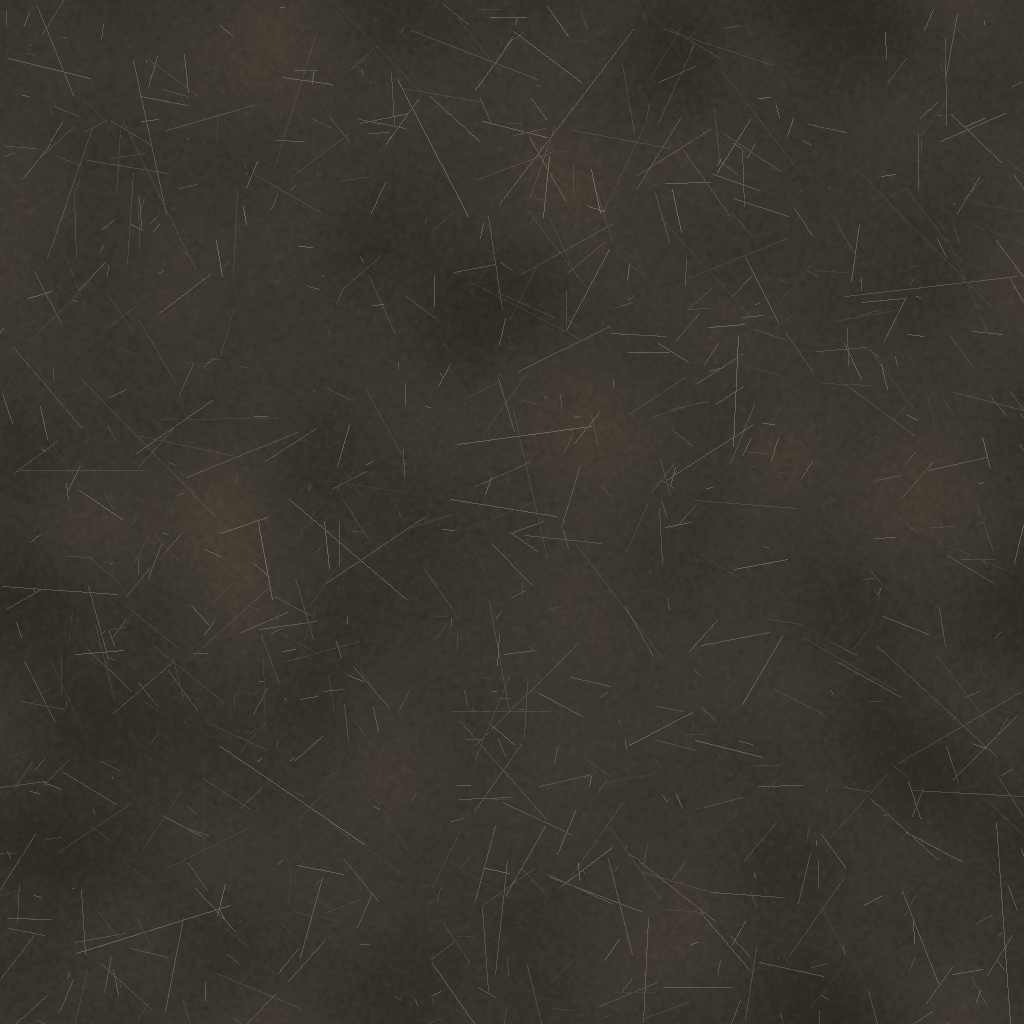
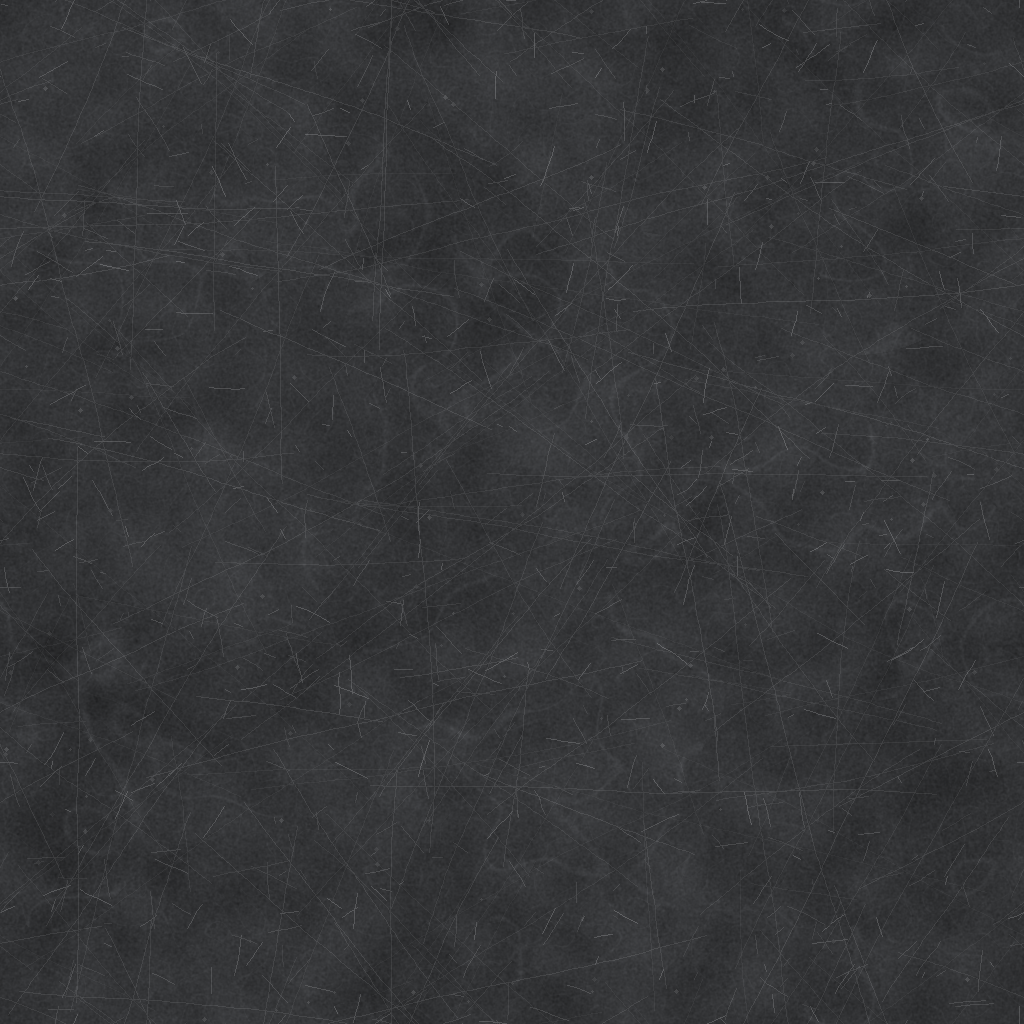
feat(sim): tape the field to spec and use the real floor texture
The field follows the task drawing: closed 1.5 m interaction circle, 30 degree search
segment out to 5 m with the far arc taped, pylons on its far corners, 2 cm tape. The
floor texture is the field's grey slate-look linoleum from photos, tiled every 1 m.

diff --git a/apps/sim-host/scripts/make_floor_texture.py b/apps/sim-host/scripts/make_floor_texture.py
@@ -1,8 +1,10 @@
-"""Make the floor texture (floor.png): the playing field's dark linoleum.
+"""Make the floor texture (floor.png): the playing field's grey slate-look linoleum.
 
-From a photo of the taped field (2026-11-20): dark warm-grey linoleum, no tiles, mottled,
-full of fine light scratches, and glossy. The gloss (window reflections) comes from the
-material in scene.xml, not from this image. The image covers 1 m; scene.xml repeats it.
+From photos of the field (2026-11-27): neutral dark-grey linoleum, no tiles, with a cloudy
+slate pattern (lighter patches with crinkled vein edges), fine speckle, a few small light
+pits, and many long, slightly curved light scratches that cross each other. The gloss
+(window reflections) comes from the material in scene.xml, not from this image. The image
+covers 1 m and tiles seamlessly; scene.xml repeats it.
 
     .venv-core/bin/python apps/sim-host/scripts/make_floor_texture.py
 """
@@ -13,42 +15,77 @@ import cv2  # in the core environment
 import numpy as np
 
 OUT = Path(__file__).parents[1] / "src/dog_sim_host/assets/floor.png"
-PIXELS = 1024  # 1 m
-BASE_RGB = (58, 53, 45)  # the photo's floor where it reflects nothing
-SCRATCHES = 900
+PIXELS = 1024  # 1 m, so 1 px = 1 mm
+BASE_RGB = (
+    52,
+    53,
+    55,
+)  # neutral, slightly cool; renders like the photos under the scene light
+LONG_SCRATCHES = 260  # 5..60 cm, curved, faint (chair and table legs)
+SHORT_SCRATCHES = 700  # 1..5 cm
+PITS = 120
 
 
 def main() -> None:
     rng = np.random.default_rng(7)  # fixed, so the floor is the same every time
-    image = np.empty((PIXELS, PIXELS, 3), np.float32)
-    image[:] = BASE_RGB
 
     def noise(blur: float) -> np.ndarray:
         """Smooth random values around 0, tiling seamlessly (blurred with wrap-around)."""
         raw = rng.normal(0, 1, (PIXELS, PIXELS)).astype(np.float32)
-        # Wrap the edges first, so the repeated image has no seams.
         pad = int(4 * blur) + 1
         wrapped = np.pad(raw, pad, mode="wrap")
         smooth = cv2.GaussianBlur(wrapped, (0, 0), blur)[pad:-pad, pad:-pad]
         return smooth / smooth.std()
 
-    image *= (1 + 0.06 * noise(40) + 0.03 * noise(1.5))[..., None]  # mottling, grain
-    scratches = np.zeros((PIXELS, PIXELS), np.float32)
-    for _ in range(SCRATCHES):  # thin light scratches, mostly short, a few long
-        start = rng.integers(0, PIXELS, 2)
-        length = rng.exponential(40)
+    def veins(blur: float) -> np.ndarray:
+        """Thin crinkled lines where smooth noise crosses zero (ridged noise), 0..1."""
+        return np.exp(-((noise(blur) / 0.12) ** 2))
+
+    # Slate: cloudy light patches, edged with fine veins at two scales, plus speckle.
+    shade = (
+        0.04 * noise(60)
+        + 0.05 * noise(14)
+        + 0.14
+        * veins(22)
+        * (noise(50) > 0)  # veins only in some patches, as in the photos
+        + 0.08 * veins(8)
+        + 0.05 * noise(0.8)
+    )
+    image = np.empty((PIXELS, PIXELS, 3), np.float32)
+    image[:] = BASE_RGB
+    image *= (1 + shade)[..., None]
+
+    def draw(points: np.ndarray, value: float, layer: np.ndarray) -> None:
+        """A polyline on the layer, drawn 9 times shifted by +-1 image so it tiles."""
+        for dx in (-PIXELS, 0, PIXELS):
+            for dy in (-PIXELS, 0, PIXELS):
+                shifted = (points + (dx, dy)).astype(np.int32)
+                cv2.polylines(layer, [shifted], False, value, 1, cv2.LINE_AA)
+
+    marks = np.zeros((PIXELS, PIXELS), np.float32)
+
+    def scratch(length: float, strength: float, bend: float) -> None:
+        """A scratch whose direction drifts slowly, so long ones curve gently."""
+        steps = max(2, int(length / 8))
         angle = rng.uniform(0, np.pi)
-        end = start + (length * np.array([np.cos(angle), np.sin(angle)])).astype(int)
-        strength = rng.uniform(0.2, 1)
-        cv2.line(
-            scratches,
-            tuple(map(int, start)),
-            tuple(map(int, end)),
-            strength,
-            1,
-            cv2.LINE_AA,
+        turn = np.cumsum(rng.normal(0, bend, steps))
+        directions = np.stack([np.cos(angle + turn), np.sin(angle + turn)], axis=1)
+        points = rng.uniform(0, PIXELS, 2) + np.cumsum(
+            directions * length / steps, axis=0
         )
-    image += (scratches * 45)[..., None]
+        draw(points, strength, marks)
+
+    for _ in range(LONG_SCRATCHES):
+        scratch(rng.uniform(50, 600), rng.uniform(0.15, 0.5), 0.015)
+    for _ in range(SHORT_SCRATCHES):
+        scratch(rng.uniform(10, 50), rng.uniform(0.3, 1.0), 0.05)
+    for _ in range(PITS):  # small light pits, 1..3 mm
+        x, y = rng.integers(0, PIXELS, 2)
+        cv2.circle(
+            marks, (int(x), int(y)), int(rng.integers(1, 3)), rng.uniform(0.3, 0.7), -1
+        )
+
+    image += (np.minimum(marks, 1) * 38)[..., None]
     cv2.imwrite(str(OUT), np.clip(image, 0, 255)[..., ::-1].astype(np.uint8))
     print(f"wrote {OUT.name}")
 

diff --git a/apps/sim-host/scripts/build_field.py b/apps/sim-host/scripts/build_field.py
@@ -1,10 +1,10 @@
 """Generate the competition field in scene.xml: tape on the floor and pylons.
 
-As taped on the real playing field (photo, 2026-11-20) and in the task drawing: the dog
-starts in a 20 x 50 cm start field in the middle of a taped circle of 1.5 m radius (the
-interaction area). The search area is a 30 degree segment with its tip at the dog, behind
-it (the core turns 180 degrees for "such"): two tape lines run from the circle out to 5 m,
-where the pylons stand. The circle is open between the two lines; there is no far arc.
+As in the task drawing (PREN Abbildung 3) and the photos of the taped field (2026-11-27):
+the dog starts in a 20 x 50 cm start field in the middle of a taped circle of 1.5 m radius
+(the interaction area). The search area is a 30 degree segment with its tip at the dog,
+behind it (the core turns 180 degrees for "such"), from the circle out to 5 m: two straight
+lines and an arc between the pylons, which stand on its two far corners (2588 mm apart).
 
     .venv/bin/python apps/sim-host/scripts/build_field.py
 
@@ -22,7 +22,9 @@ INTERACTION_RADIUS = 1.5  # m
 SEARCH_ANGLE = math.radians(30)
 SEARCH_RADIUS = 5.0  # m from the dog, where the pylons stand
 SEARCH_DIRECTION = math.pi  # behind the dog, which starts facing +x
-TAPE_WIDTH = 0.05  # m, white floor tape (photo)
+TAPE_WIDTH = (
+    0.02  # m, white floor tape (photos: about a seventh of the 14 cm cone base)
+)
 TAPE_HEIGHT = 0.0005  # m, half height: lies on the floor
 ARC_STEP = math.radians(4)  # tape pieces along the circle
 
@@ -41,6 +43,16 @@ def tape(name: str, a: tuple[float, float], b: tuple[float, float]) -> str:
 
 def polar(radius: float, angle: float) -> tuple[float, float]:
     return radius * math.cos(angle), radius * math.sin(angle)
+
+
+def arc(name: str, radius: float, start: float, sweep: float) -> list[str]:
+    """Tape along a circle from angle start, counter-clockwise by sweep, in short pieces."""
+    steps = math.ceil(abs(sweep) / ARC_STEP)
+    angles = [start + sweep * i / steps for i in range(steps + 1)]
+    return [
+        tape(f"{name}_{i}", polar(radius, a), polar(radius, b))
+        for i, (a, b) in enumerate(zip(angles, angles[1:]))
+    ]
 
 
 def build() -> str:
@@ -65,19 +77,8 @@ def build() -> str:
             f'    <geom name="pylon_{side}" class="pylon" pos="{x:.4f} {y:.4f} 0"/>'
         )
 
-    # The circle, from the right search line all the way round to the left one.
-    open_arc = 2 * math.pi - SEARCH_ANGLE
-    steps = round(open_arc / ARC_STEP)
-    for i in range(steps):
-        a = right + open_arc * i / steps
-        b = right + open_arc * (i + 1) / steps
-        lines.append(
-            tape(
-                f"tape_circle_{i}",
-                polar(INTERACTION_RADIUS, a),
-                polar(INTERACTION_RADIUS, b),
-            )
-        )
+    lines += arc("tape_search_far", SEARCH_RADIUS, left, SEARCH_ANGLE)
+    lines += arc("tape_circle", INTERACTION_RADIUS, 0, 2 * math.pi)
     return "\n".join(lines)
 
 

diff --git a/docs/simulator/devlog.md b/docs/simulator/devlog.md
@@ -2,6 +2,14 @@
 
 One entry per iteration: what changed, what we learned, what is next. Newest first.
 
+## 2026-11-27 · Playing field to spec, real floor
+
+- The field now follows the task drawing (Abbildung 3): closed interaction circle of 1.5 m
+  radius, 30° search segment from the circle to 5 m with the far arc taped, pylons on its far
+  corners 2588 mm apart. Tape is 2 cm wide (photos), not 5 cm.
+- The floor is the field's grey slate-look linoleum from photos: cloudy veins, speckle, long
+  curved scratches, small pits. It tiles every 1 m (`texuniform`), not 0.6 m.
+
 ## 2026-11-27 · Training data for the bone detector
 
 - `scripts/make_dataset.py` renders labelled YOLO images of the bone: random floor, light,
